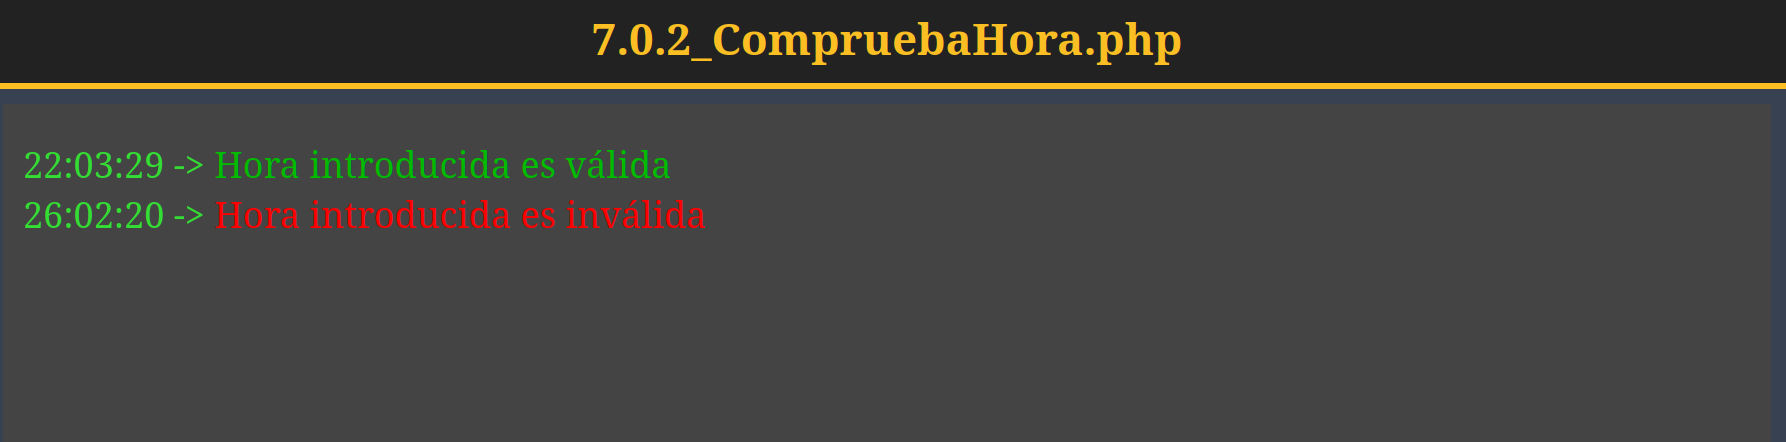
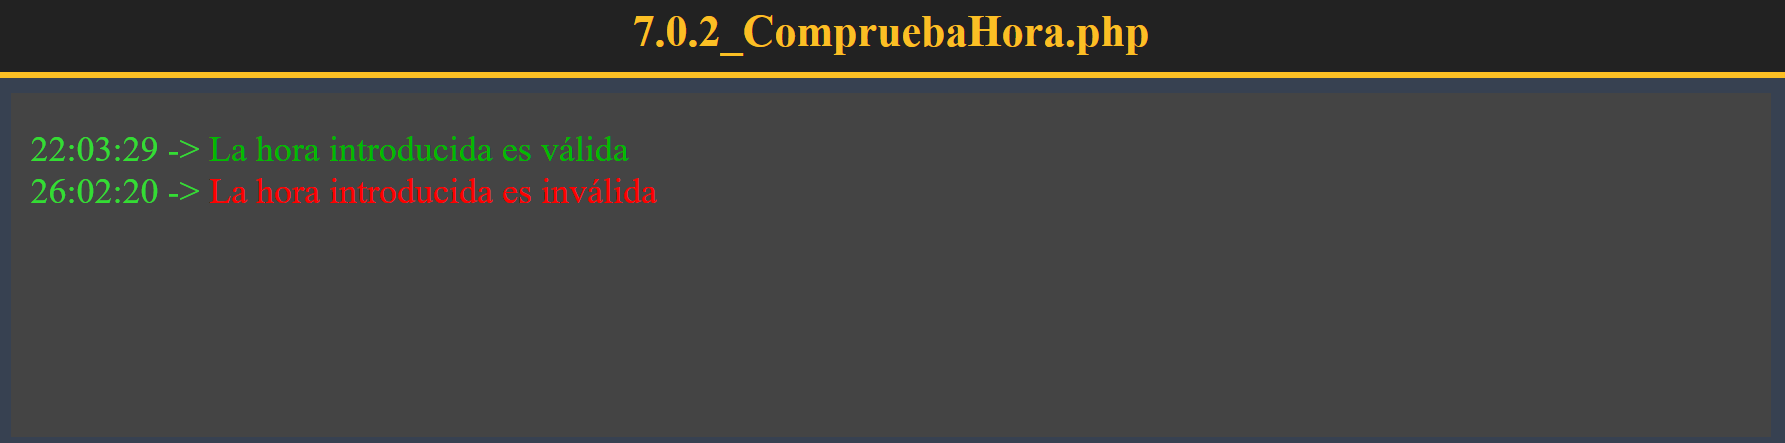
Exercises 2026-09-19 and some fixes

Changed region(s): [[0.0, 0.0294, 1.0, 0.2059], [0.0, 0.2941, 0.4006, 0.5294]]

diff --git a/tema_2/7.0.3_Matematicas.php b/tema_2/7.0.3_Matematicas.php
@@ -1,0 +1,42 @@
+<?php
+require_once('../templates/page.php');
+
+function digitos(int $num) : int{  
+  return strlen("$num");
+}
+
+function digitoN(int $num, int $pos) : int{
+  return "$num"[$pos - 1];
+}
+
+function quitaPorDetras(int $num, int $cant): int{
+  return substr("$num", 0, strlen("$num") - $cant);
+}
+
+function quitaPorDelante(int $num, int $cant): int{
+  return substr("$num", $cant);
+}
+
+initPage('7.0.3_Matematicas');
+printStatement('
+<p>Añade las siguientes funciones:</p>
+<p>• digitos(int $num): int→devuelve la cantidad de dígitos de un número.</p>
+<p>• digitoN(int $num, int $pos): int→devuelve el dígito que ocupa, empezando por la izquierda, la posición $pos.</p>
+<p>• quitaPorDetras(int $num, int $cant): int → le quita por detrás (derecha) $cant dígitos</p>
+<p>• quitaPorDelante(int $num, int $cant): int→le quita por delante(izquierda) $cant dígitos.</p>');
+
+$number = rand(100, 100000000);
+$pos    = rand(1, strlen("$number") - 1);
+$cant   = rand(1, strlen("$number"));
+
+echo '$num = '.$number.'<br>';
+echo '$pos = '.$pos.'<br>';
+echo '$cant = '.$cant.'<br><br>';
+
+echo '<span style="color: var(--main-color);">digitos(int $num)</span> => '.digitos($number).'<br>';
+echo '<span style="color: var(--main-color);">digitoN(int $num, int $pos)</span> => '.digitoN($number, $pos).'<br>';
+echo '<span style="color: var(--main-color);">quitaPorDetras(int $num, int $cant)</span> => '.quitaPorDetras($number, $cant).'<br>';
+echo '<span style="color: var(--main-color);">quitaPorDelante(int $num, int $cant)</span> => '.quitaPorDelante($number, $cant).'<br>';
+
+endPage();
+?>

diff --git a/tema_2/7.0.2_CompruebaHora.php b/tema_2/7.0.2_CompruebaHora.php
@@ -17,9 +17,9 @@ function showTime(string $timeString, bool $isValid){
   $code = $timeString.' -> ';
 
   if($isValid)
-    $code .= '<span style="color: #00BB00;">Hora introducida es válida</span>';
+    $code .= '<span style="color: #00BB00;">La hora introducida es válida</span>';
   else
-    $code .= '<span style="color: #FF0000;">Hora introducida es inválida</span>'; 
+    $code .= '<span style="color: #FF0000;">La hora introducida es inválida</span>'; 
   
   return $code.'<br>';
 }

diff --git a/README.MD b/README.MD
@@ -23,5 +23,6 @@
 
 ![alt text](screenshots/tema_2/7.0.1_ParametrosVariables.png)
 ![alt text](screenshots/tema_2/7.0.2_CompruebaHora.png)
+![alt text](screenshots/tema_2/7.0.3_Matematicas.png)
 
 </div>
